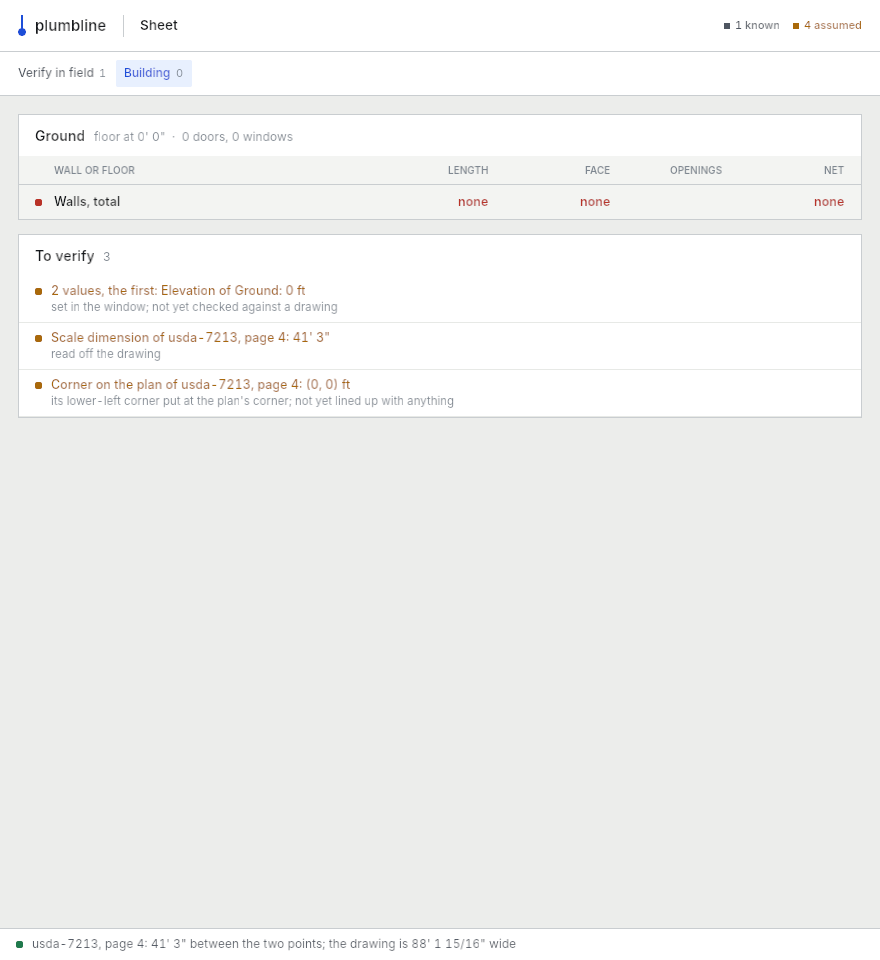
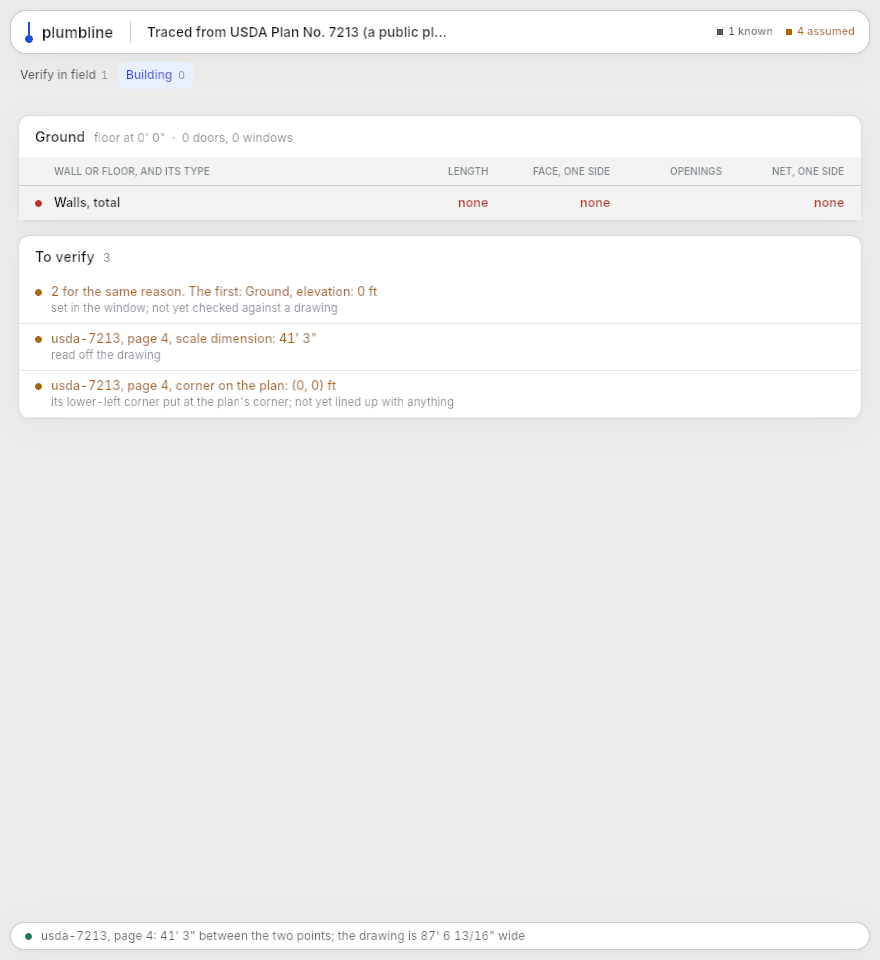
plumbline: the plan demonstration passes on the rebuilt window: a real sheet scaled from one dimension and traced
Its clicks after the wheel were at places that were right before the window
was rebuilt. They are taken again by the one factor the wheel's new step
gives (0.8843 toward where the wheel is turned), worked from the dimension's
length on the page. Run alone on the last build: the sheet 87.6 ft wide
(87.8 by hand, give or take a foot), the four walls exactly as typed, the
vector plan snapped to its own lines. 22 pictures of this build.

Claude-Session: https://claude.ai/code/session_01PMY5GTDksocgFxqnWiqF81

diff --git a/plumbline/STATUS.md b/plumbline/STATUS.md
@@ -5129,9 +5129,9 @@ layer drawn. None of that last night's work has been through a judge to the end.
 3. **The new layers have one window demonstration** (`demos/tradesw.sh`: the Finishes,
    Framing and Ground switches and a level looked into, each measured). It does not
    measure the flashing, the base or the footings themselves. Extend it.
-4. **Repair the older window demonstrations** on the rebuilt window: `planw` (its
-   walls now come out right; its scale clicks land off the dimension), `buildw`,
-   `draww`, and the rest listed stale above. Their fixed click places predate the
+4. **Repair the older window demonstrations** on the rebuilt window: `planw` is
+   repaired and passes (the note at the end of this file says how its clicks were
+   taken again); `buildw`, `draww`, and the rest listed stale above are not. Their fixed click places predate the
    rebuild.
 5. **The seam for a harness per division** (PROPOSALS.md 21): a division out, a
    division in, and `divisions/` grown from an index into what each trade knows.
@@ -5190,4 +5190,25 @@ where it said "Sheet". Seen: `demos/captured/layers/estimate-window.png` (the ma
 whole house: the recap, then the sixteen divisions with Concrete at 9 lines and
 $32,485.40). `demos/pricew.sh`, which finds and types in that window, passes on this
 build; its pictures in `demos/captured/price/` are of this build. 283 tests pass.
+
+**`demos/planw.sh` passes on the rebuilt window (2026-11-13).** It is the
+demonstration of the release candidate's item 3: from an empty job a real scanned
+sheet (USDA Plan No. 7213, a public plan) is laid under a level, given its scale from
+its own 41'-3" dimension, and its outside walls traced; then a vector plan, snapped
+to its own lines. Run alone on the last build: the scale is 41' 3" over 371.7 points
+of the page, the sheet 87.6 ft wide (worked figure 87.8, give or take a foot); the
+four walls [23.9167, 23.9167, 41.25, 41.25] ft, 130.3334 ft round the house; the
+second session passes too. Its 22 pictures in `demos/captured/plan/` are of this
+build. Read: 07, the four walls lying exactly on the house's outline on the sheet,
+in the glass window, the panel reading Walls 4, 130.33 LF, 1,042.67 SF, Assumed.
+
+**How its clicks were taken again, so the next ones can be:** the wheel now closes in
+by 0.81 a step about the pointer where it was more, so every place the script clicks
+after its two steps of the wheel moved toward the pointer's place (760, 420) by one
+factor. The factor is the dimension's length on screen now over then: it is 370.7
+points long on the page; a failing run printed how many points my first guess had
+picked (359.2, for a guess of 360), which gave the scale of the screen exactly
+(1.4767 dots to the point), so 547 dots now where it was 619: 0.8843. The first try
+used 0.8588, from a wrong guess at the dimension's length, and failed by 3 ft of
+sheet width. `buildw` and `draww` want the same treatment and have not had it.
 
